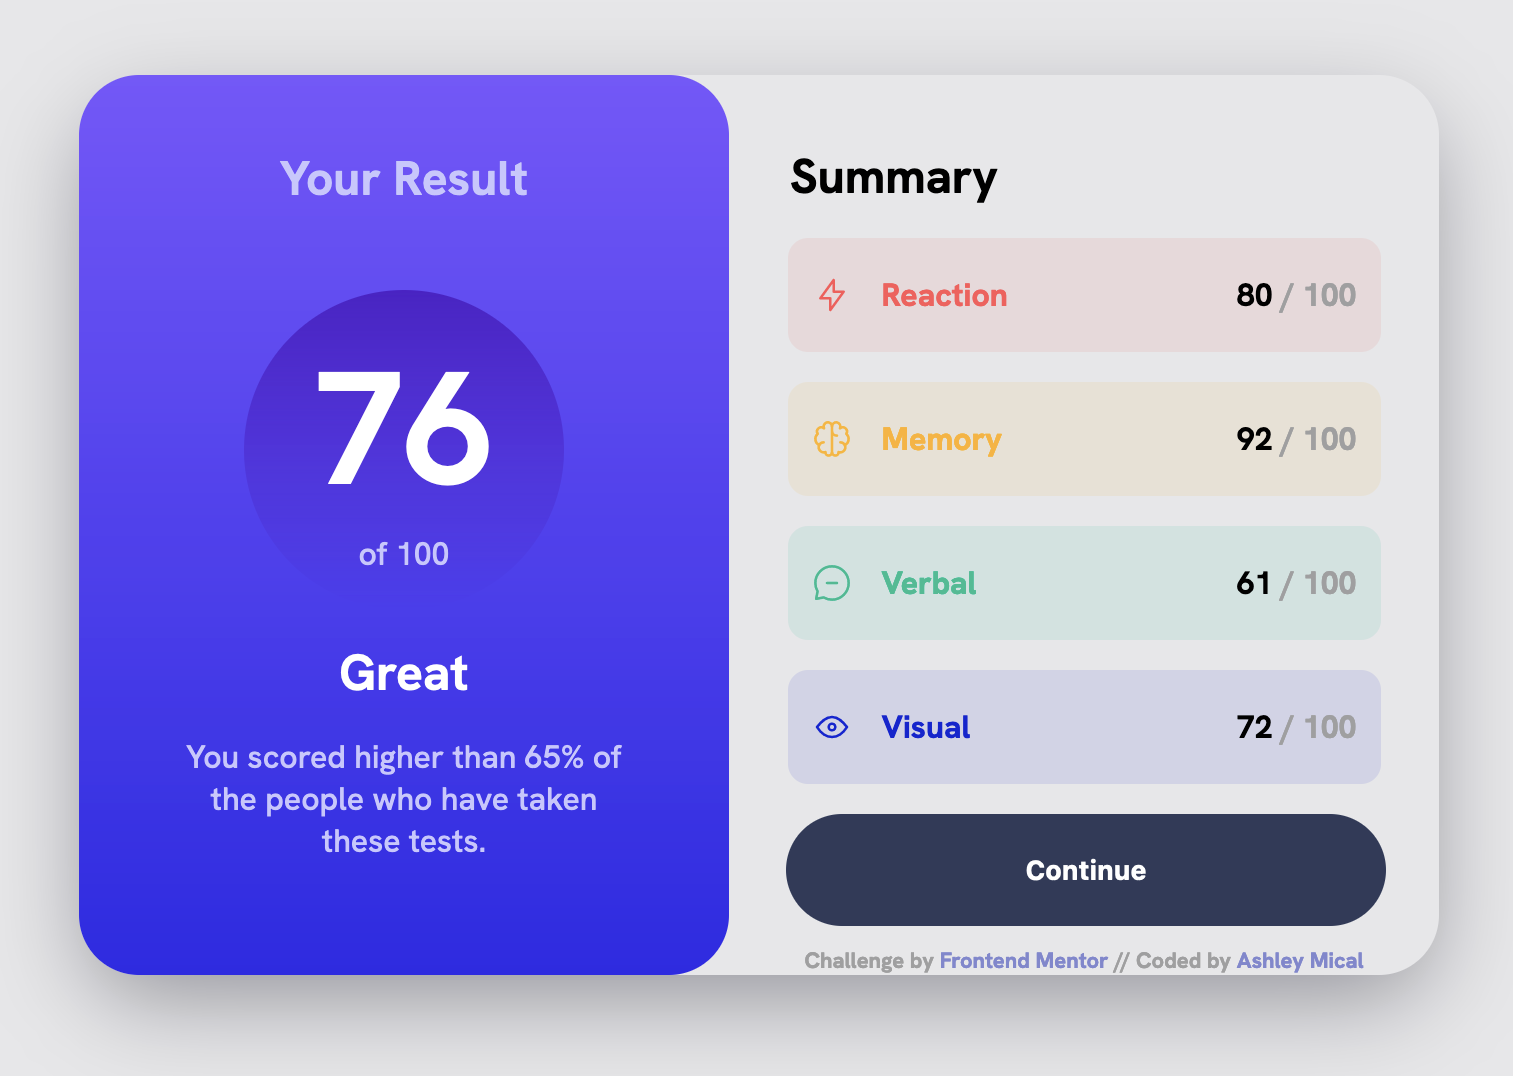
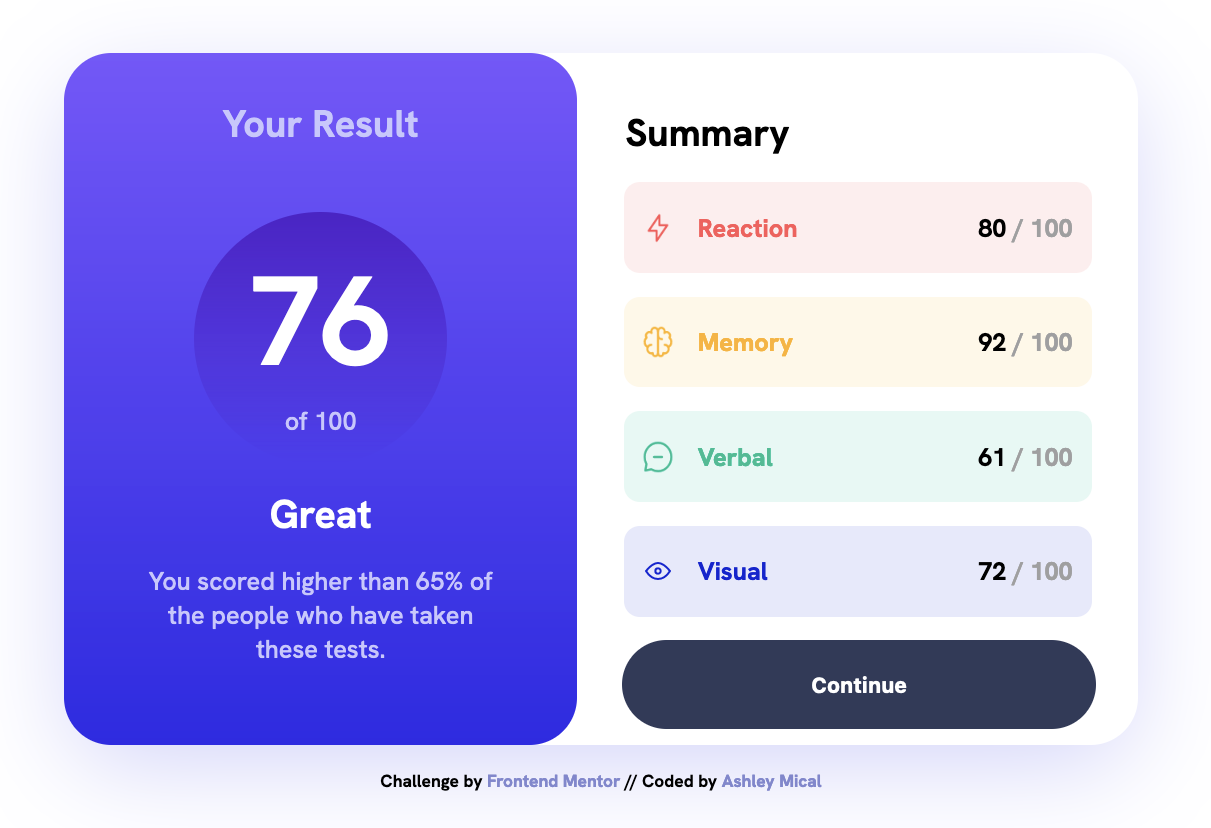
moved attribution and corrected drop shadow color

diff --git a/index.html b/index.html
@@ -84,12 +84,11 @@
       <article class="third-article">
         <button>Continue</button>
       </article>
-      <div class="attribution grey">
-        Challenge by <a href="https://www.frontendmentor.io?ref=challenge" target="_blank">Frontend Mentor</a> // 
-        Coded by <a href="https://github.com/micamash">Ashley Mical</a>
-      </div>
     </div>
   </main>
 </body>
-
+<div class="attribution">
+  Challenge by <a href="https://www.frontendmentor.io?ref=challenge" target="_blank">Frontend Mentor</a> // 
+  Coded by <a href="https://github.com/micamash">Ashley Mical</a>
+</div>
 </html>

diff --git a/css/styles.css b/css/styles.css
@@ -188,6 +188,10 @@ button {
 button:hover {
     background: linear-gradient(hsl(252, 100%, 67%), hsl(241, 81%, 54%));
 }
+
+.attribution {
+    padding-top: 15px;
+}
   
 .attribution > a {
    text-decoration: none;
@@ -210,7 +214,7 @@ button:hover {
     
     main {
         flex-direction: row;
-        box-shadow: 0 1em 3em -0.4em rgb(142, 142, 150);
+        box-shadow: 0 1em 4em -0.4em hsl(239, 85%, 90%);
         border: 1px transparent;
         border-radius: 30px;
     }
